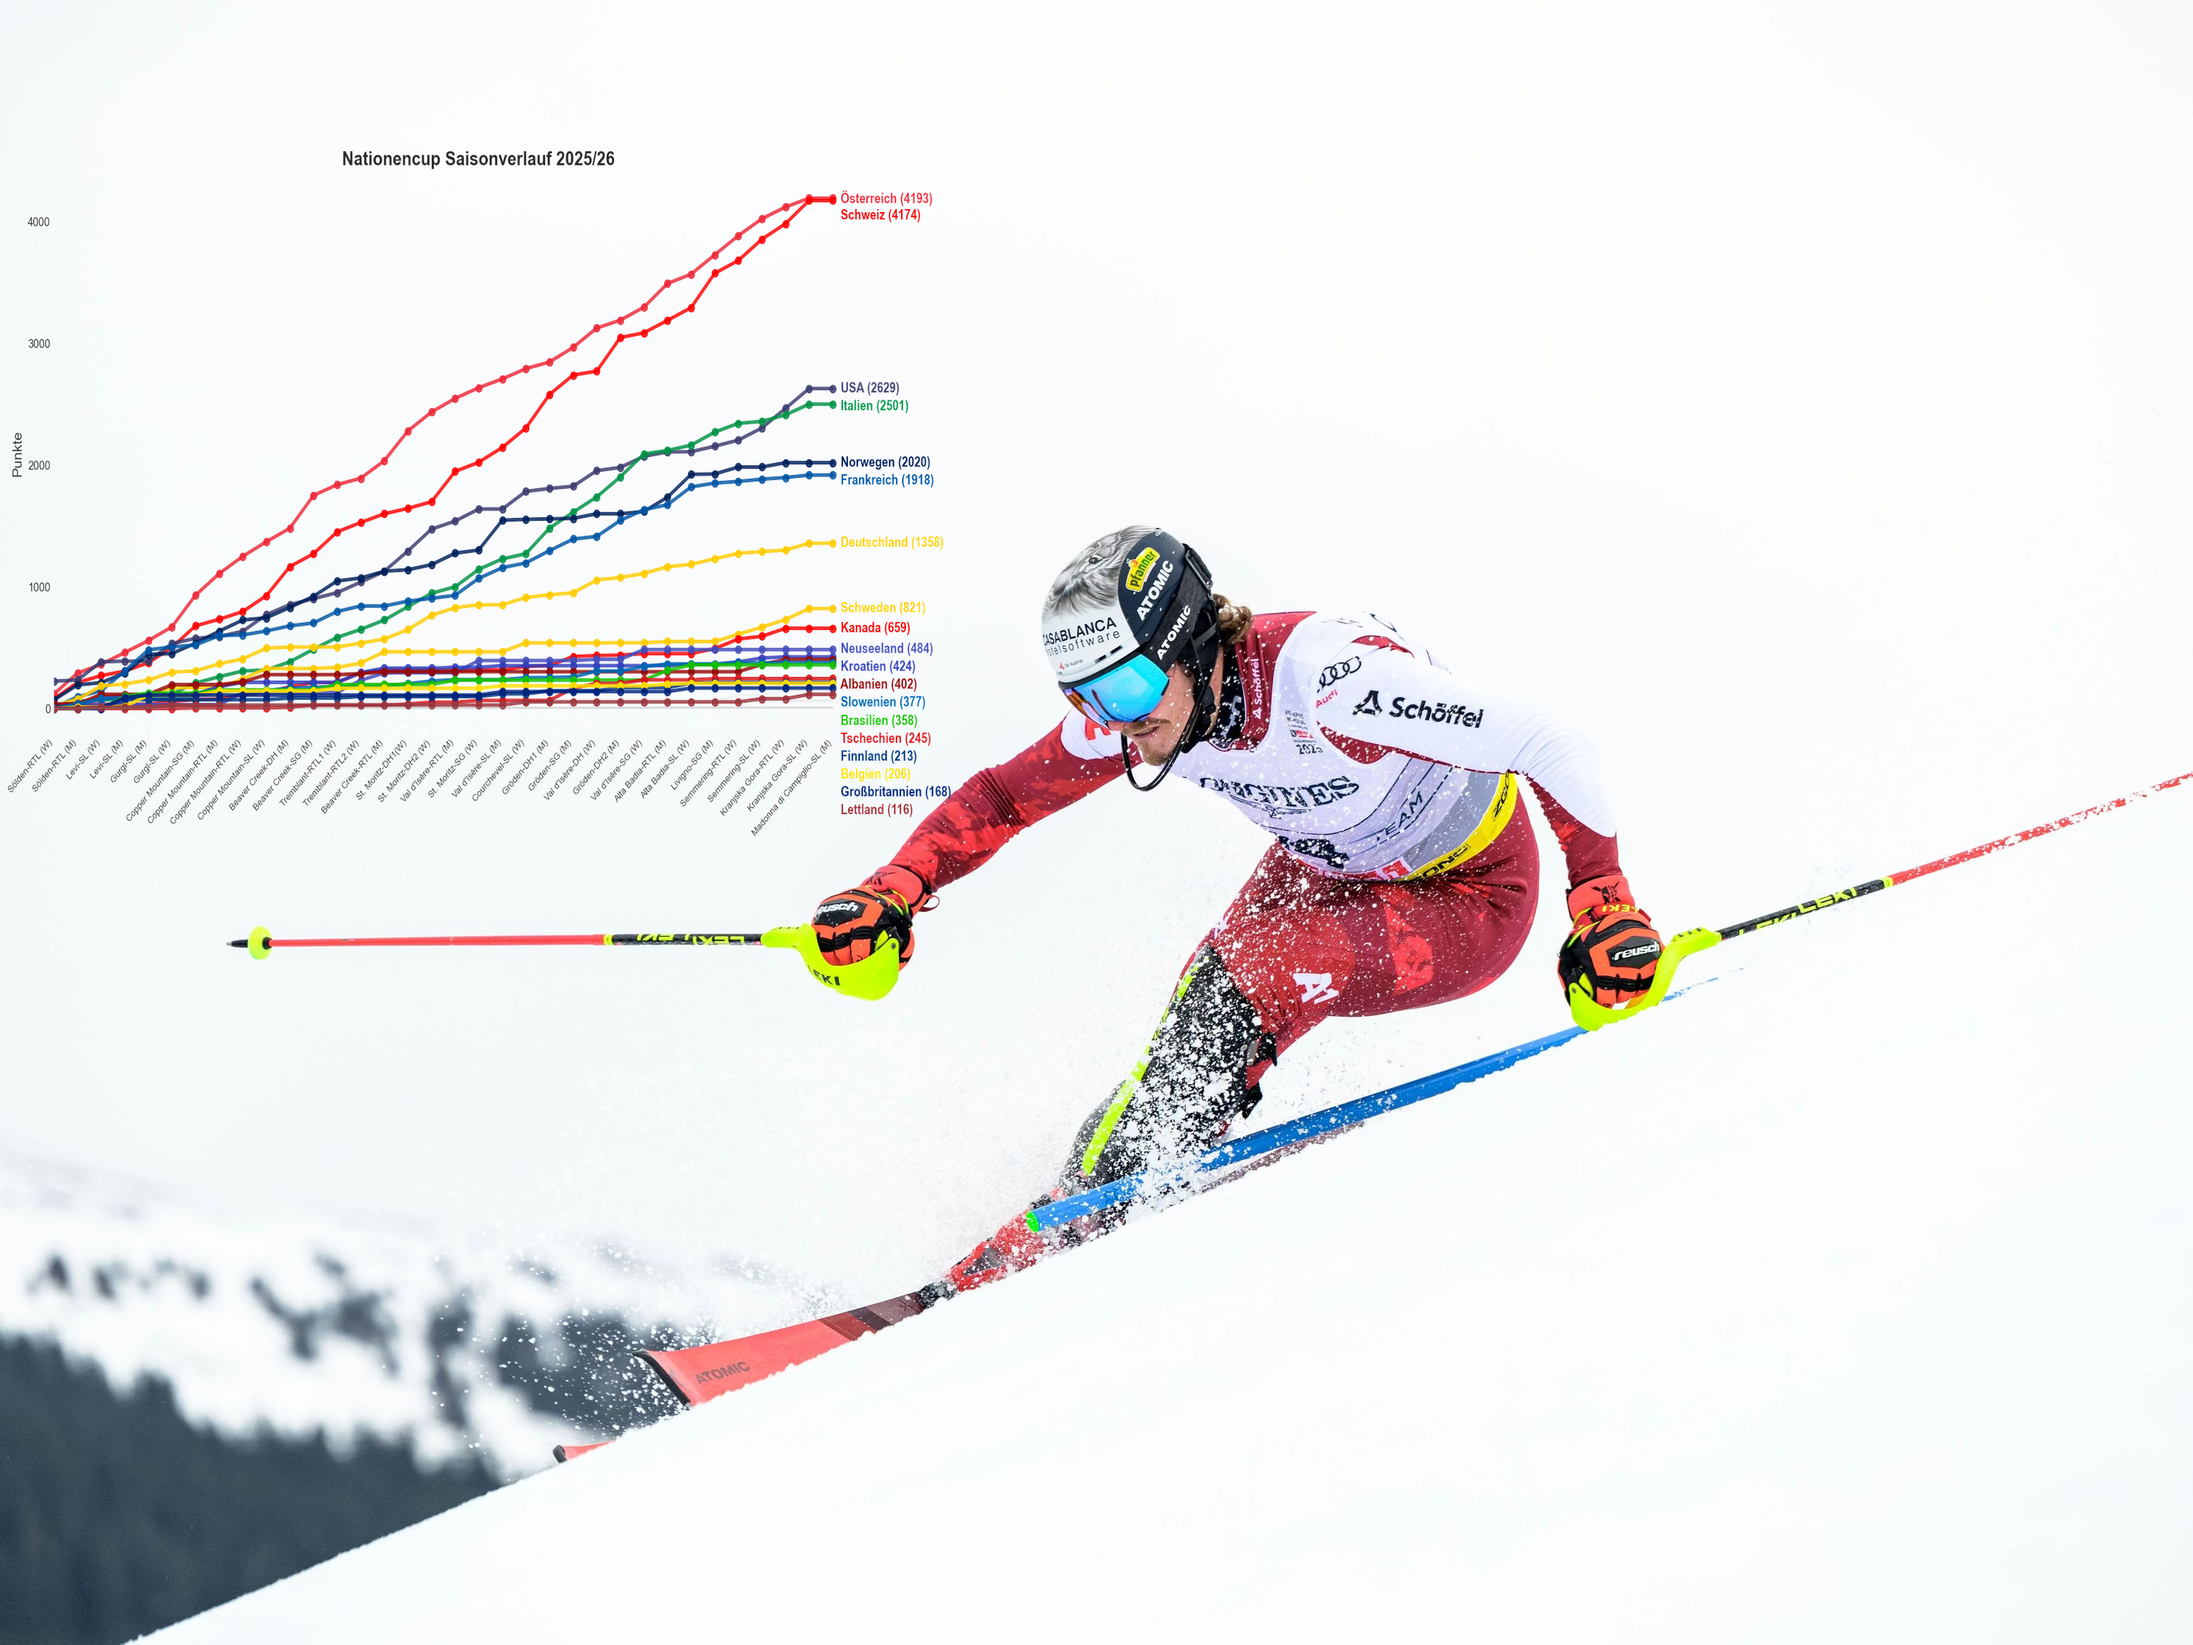
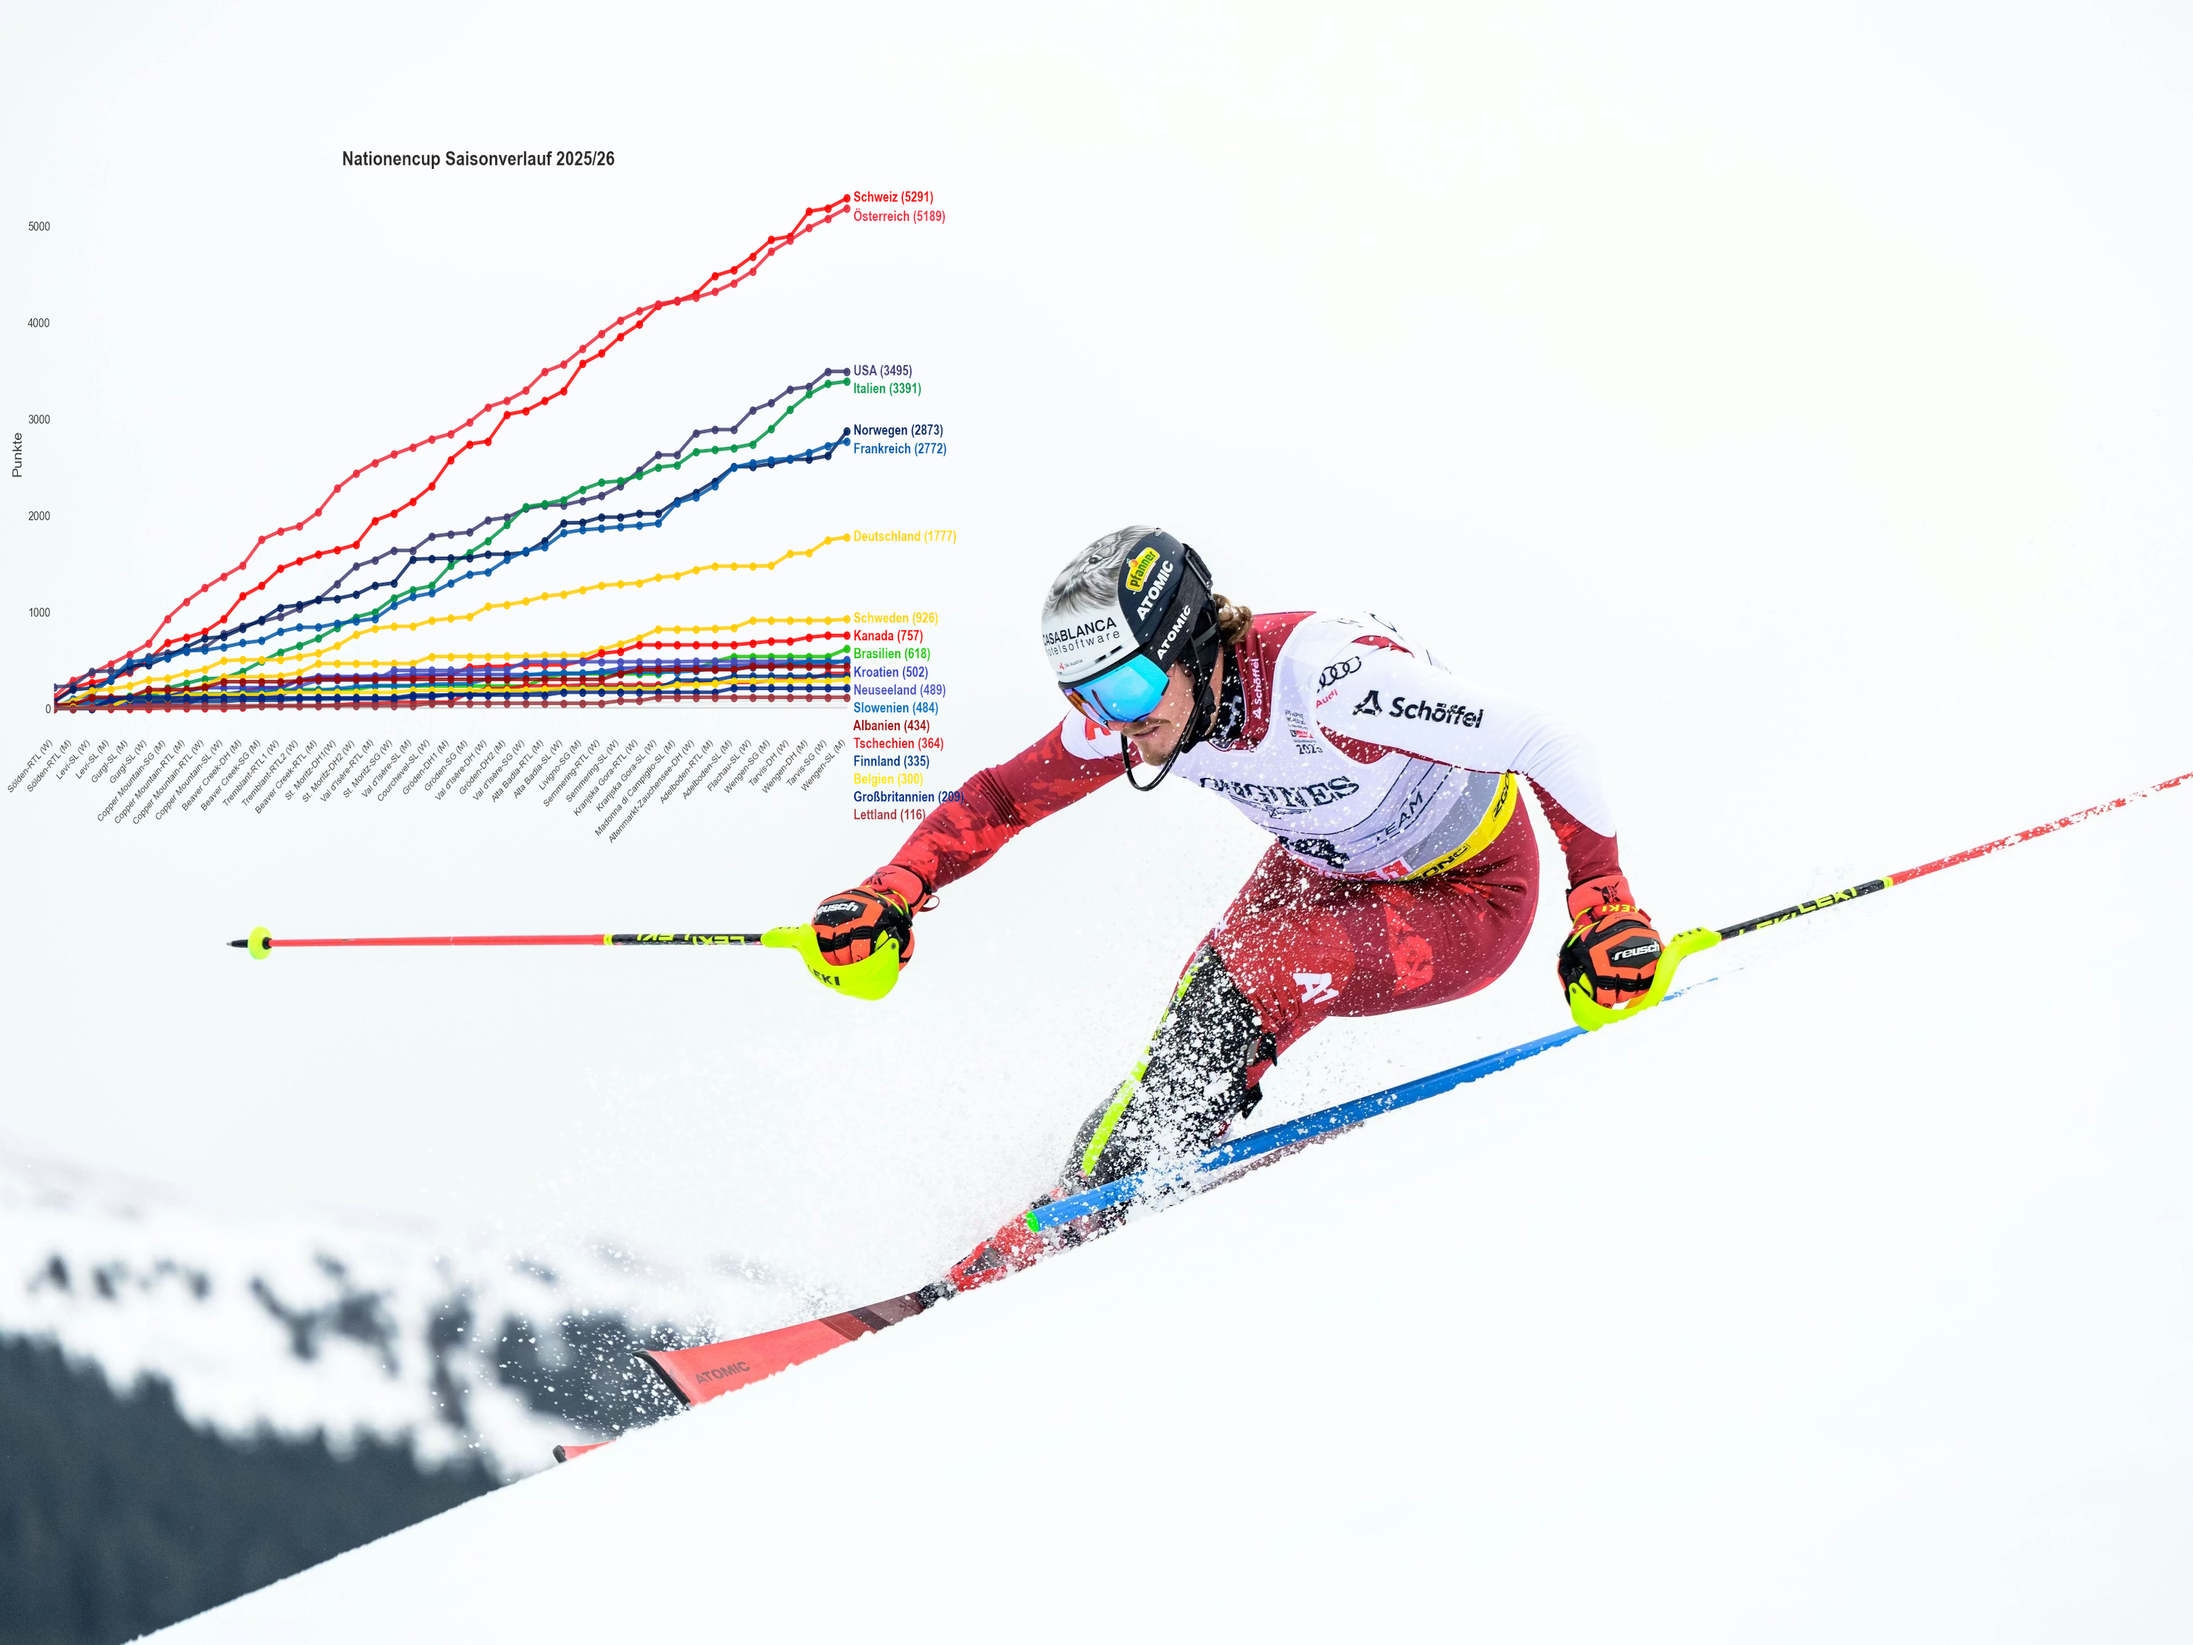
Add new Races and implement to avoid re-scraping (unnecessary) existing datasets

Changed region(s): [[0.0312, 0.1556, 0.437, 0.4979], [0.3434, 0.0934, 0.437, 0.1556]]

diff --git a/scraper.py b/scraper.py
@@ -18,13 +18,20 @@ chrome_options.add_argument("user-agent=Mozilla/5.0 (Windows NT 10.0; Win64; x64
 
 driver = webdriver.Chrome(service=Service(ChromeDriverManager().install()), options=chrome_options)
 
-season_results_list = []
+output_path = os.path.join("..", "Projekt_Ski", "results.json")
+
+# Existierende Daten laden oder mit leerer Liste starten
+if os.path.exists(output_path):
+    with open(output_path, "r", encoding="utf-8") as f:
+        season_results_list = json.load(f)
+else:
+    season_results_list = []
 
 # Deine IDs
 season_races = [
     127331, 127332, 127333, 127334, 127335, 127336,
     127440, 127441, 127442, 127443,
-    127340, 127341, 127342, 127343, 127344, 127347, 127348, 127350, 127349, 127351, 127352, 127339, 127357, 127360, 127356, 127361, 127362, 127363, 127364, 127365, 127366, 127367, 127368, 127369
+    127340, 127341, 127342, 127343, 127344, 127347, 127348, 127350, 127349, 127351, 127352, 127339, 127357, 127360, 127356, 127361, 127362, 127363, 127364, 127365, 127366, 127367, 127368, 127369, 127372, 127374, 127375, 127376, 127380, 127385, 127381, 127386, 127382
 ]
 # Link für die FIS-Seite zum schnelleren Suchen und Hinzufügen neuer IDs: 
 # https://www.fis-ski.com/DB/alpine-skiing/calendar-results.html?eventselection=&place=&sectorcode=AL&seasoncode=2026&categorycode=WC&disciplinecode=&gendercode=&racedate=&racecodex=&nationcode=&seasonmonth=X-2026&saveselection=-1&seasonselection=
@@ -32,77 +39,78 @@ season_races = [
 print("Starte Scraping pro Rennen mit strenger Punkte-Filterung...")
 
 try:
+    with open(output_path, "r", encoding="utf-8") as f:
+        existing_races = [item["race_id"] for item in json.load(f)]
     for raceid in season_races:
-        url = f"https://www.fis-ski.com/DB/general/results.html?sectorcode=AL&raceid={raceid}"
-        driver.get(url)
+        if raceid not in existing_races:
+            url = f"https://www.fis-ski.com/DB/general/results.html?sectorcode=AL&raceid={raceid}"
+            driver.get(url)
 
-        try:
-            # Warte auf Tabelle
-            WebDriverWait(driver, 10).until(
-                EC.presence_of_element_located((By.CSS_SELECTOR, "a.table-row"))
-            )
-        except:
-            print(f"Race {raceid}: Keine Daten/Timeout.")
-            season_results_list.append({
-                "race_id": raceid,
-                "points": {} 
-            })
-            continue
-
-        soup = BeautifulSoup(driver.page_source, "html.parser")
-        
-        # Hol alle Zeilen
-        rows = soup.select("a.table-row")
-        print(f"Race {raceid}: Analysiere {len(rows)} Athleten...")
-
-        current_race_points = {}
-
-        for row in rows:
-            nation_el = row.select_one("span.country__name-short")
-            # Wir holen ALLE Spalten, die rechts ausgerichtet sind (Zeit, Diff, Punkte)
-            right_cells = row.select("div.justify-right")
-
-            if not nation_el or not right_cells:
+            try:
+                # Warte auf Tabelle
+                WebDriverWait(driver, 10).until(
+                    EC.presence_of_element_located((By.CSS_SELECTOR, "a.table-row"))
+                )
+            except:
+                print(f"Race {raceid}: Keine Daten/Timeout.")
+                season_results_list.append({
+                    "race_id": raceid,
+                    "points": {} 
+                })
                 continue
 
-            nation = nation_el.get_text(strip=True)
+            soup = BeautifulSoup(driver.page_source, "html.parser")
+            
+            # Hol alle Zeilen
+            rows = soup.select("a.table-row")
+            print(f"Race {raceid}: Analysiere {len(rows)} Athleten...")
 
-            # --- LOGIK FIX ---
-            # Die Weltcup-Punkte stehen fast immer in der LETZTEN Spalte.
-            # Wenn ein Fahrer keine Punkte bekommt (Platz > 30), ist die Spalte oft leer oder enthält "-"
-            
-            last_cell_text = right_cells[-1].get_text(strip=True)
-            
-            points = 0
-            
-            # Prüfen ob Text eine Zahl ist
-            if last_cell_text.isdigit():
-                val = int(last_cell_text)
+            current_race_points = {}
+
+            for row in rows:
+                nation_el = row.select_one("span.country__name-short")
+                # Wir holen ALLE Spalten, die rechts ausgerichtet sind (Zeit, Diff, Punkte)
+                right_cells = row.select("div.justify-right")
+
+                if not nation_el or not right_cells:
+                    continue
+
+                nation = nation_el.get_text(strip=True)
+
+                # --- LOGIK FIX ---
+                # Die Weltcup-Punkte stehen fast immer in der LETZTEN Spalte.
+                # Wenn ein Fahrer keine Punkte bekommt (Platz > 30), ist die Spalte oft leer oder enthält "-"
                 
-                # DER WICHTIGSTE CHECK:
-                # Weltcuppunkte sind maximal 100 (für Platz 1). 
-                # Wenn die Zahl > 100 ist, haben wir versehentlich Zeit, FIS-Code oder Race-Points erwischt.
-                if val <= 100:
-                    points = val
-                else:
-                    # Zahl zu groß -> ignorieren (das sind keine WC Punkte)
-                    points = 0
-            
-            # Nur addieren, wenn Punkte > 0
-            if points > 0:
-                current_race_points[nation] = current_race_points.get(nation, 0) + points
+                last_cell_text = right_cells[-1].get_text(strip=True)
+                
+                points = 0
+                
+                # Prüfen ob Text eine Zahl ist
+                if last_cell_text.isdigit():
+                    val = int(last_cell_text)
+                    
+                    # DER WICHTIGSTE CHECK:
+                    # Weltcuppunkte sind maximal 100 (für Platz 1). 
+                    # Wenn die Zahl > 100 ist, haben wir versehentlich Zeit, FIS-Code oder Race-Points erwischt.
+                    if val <= 100:
+                        points = val
+                    else:
+                        # Zahl zu groß -> ignorieren (das sind keine WC Punkte)
+                        points = 0
+                
+                # Nur addieren, wenn Punkte > 0
+                if points > 0:
+                    current_race_points[nation] = current_race_points.get(nation, 0) + points
 
-        print(f"Race {raceid}: {len(current_race_points)} Nationen gepunktet.")
-        
-        season_results_list.append({
-            "race_id": raceid,
-            "points": current_race_points
-        })
+            print(f"Race {raceid}: {len(current_race_points)} Nationen gepunktet.")
+            
+            season_results_list.append({
+                "race_id": raceid,
+                "points": current_race_points
+            })
 
 finally:
     driver.quit()
-
-output_path = os.path.join("..", "Projekt_Ski", "results.json")
 
 with open(output_path, "w", encoding="utf-8") as f:
     json.dump(season_results_list, f, indent=4)

diff --git a/ski_nationencup_25-26.py b/ski_nationencup_25-26.py
@@ -85,7 +85,16 @@ RACE_ID_TO_NAME = {
     "127366": "Semmering-SL (W)",
     "127367": "Kranjska Gora-RTL (W)",
     "127368": "Kranjska Gora-SL (W)",
-    "127369": "Madonna di Campiglio-SL (M)"
+    "127369": "Madonna di Campiglio-SL (M)",
+    "127372": "Altenmarkt-Zauchensee-DH (W)",
+    "127374": "Adelboden-RTL (M)",
+    "127375": "Adelboden-SL (M)",
+    "127376": "Flachau-SL (W)",
+    "127380": "Wengen-SG (M)",
+    "127385": "Tarvis-DH (W)",
+    "127381": "Wengen-DH (M)",
+    "127386": "Tarvis-SG (W)",
+    "127382": "Wengen-SL (M)"
 }
 
 # Liste der Nationen, die beschriftet werden sollen (Namen müssen zum Mapping oben passen)
@@ -129,6 +138,12 @@ def update_wallpaper():
             race_labels.append(nice_name)
 
         df = pd.DataFrame(data_for_df)
+        
+        # Überprüfung: Ist der DataFrame leer?
+        if df.empty:
+            print("⚠  Keine Daten zum Visualisieren. Überspringe...")
+            return
+        
         df = df.fillna(0)
         df = df.cumsum()
         
